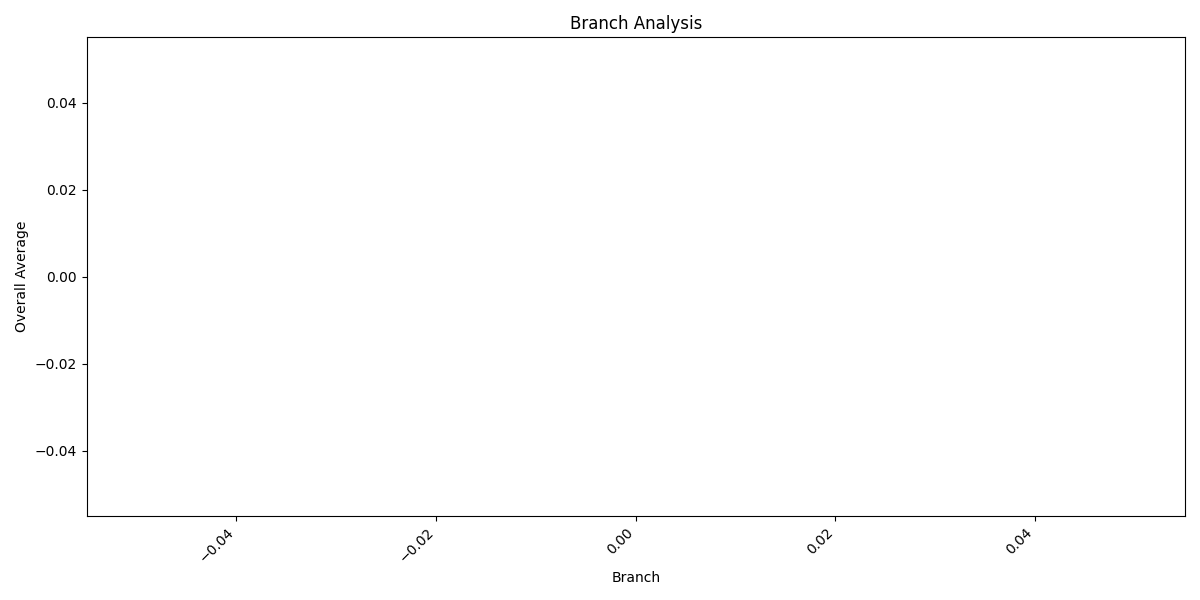
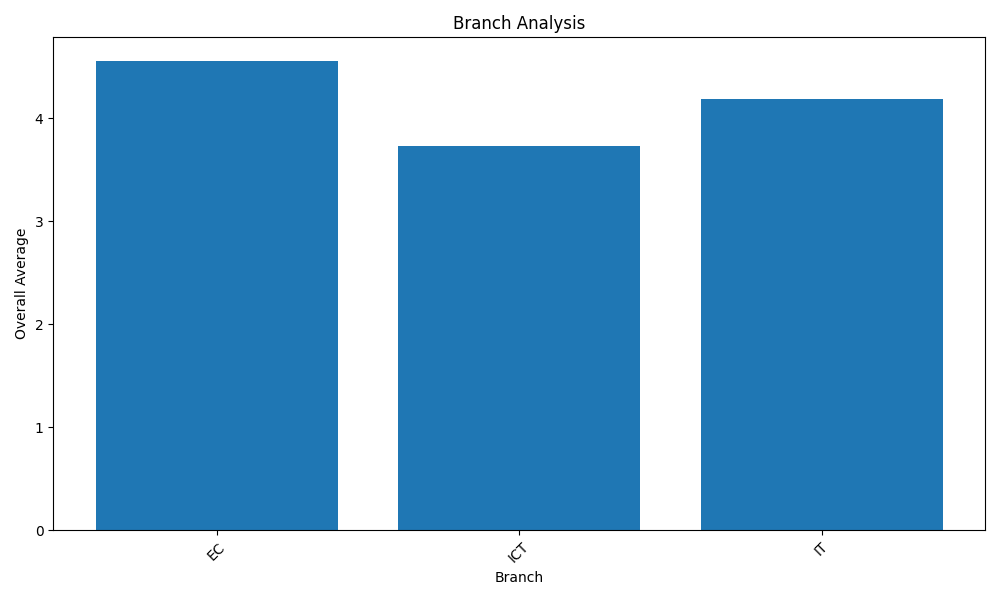
Parameter-wise Analysis Plot

diff --git a/feedback-analysis.py b/feedback-analysis.py
@@ -1,6 +1,7 @@
 import csv
 from collections import defaultdict
 from datetime import datetime
+import matplotlib.pyplot as plt
 
 def calculate_average(scores):
     return sum(scores) / len(scores)
@@ -171,6 +172,135 @@ def analyze_feedback(file_path):
     return analysis, data
 
 
+def generate_charts(analysis_result):
+    # Branch Analysis Chart
+    branches = list(analysis_result['Branch Analysis'].keys())
+    branch_averages = [data['Overall average'] for data in analysis_result['Branch Analysis'].values()]
+    plt.figure(figsize=(10, 6))
+    plt.bar(branches, branch_averages)
+    plt.xlabel('Branch')
+    plt.ylabel('Overall Average')
+    plt.title('Branch Analysis')
+    plt.xticks(rotation=45)
+    plt.tight_layout()
+    plt.savefig('branch_analysis.png')
+    plt.close()
+
+    # Semester Analysis Chart
+    semesters = list(analysis_result['Semester Analysis'].keys())
+    semester_averages = [data['Overall average'] for data in analysis_result['Semester Analysis'].values()]
+    plt.figure(figsize=(10, 6))
+    plt.bar(semesters, semester_averages)
+    plt.xlabel('Semester')
+    plt.ylabel('Overall Average')
+    plt.title('Semester Analysis')
+    plt.xticks(rotation=45)
+    plt.tight_layout()
+    plt.savefig('semester_analysis.png')
+    plt.close()
+
+    # Subject Analysis Chart
+    subjects = list(analysis_result['Subject Analysis'].keys())
+    subject_averages = [data['Overall average'] for data in analysis_result['Subject Analysis'].values()]
+    plt.figure(figsize=(12, 6))
+    plt.bar(subjects, subject_averages)
+    plt.xlabel('Subject')
+    plt.ylabel('Overall Average')
+    plt.title('Subject Analysis')
+    plt.xticks(rotation=90)
+    plt.tight_layout()
+    plt.savefig('subject_analysis.png')
+    plt.close()
+
+    # Faculty Analysis Chart
+    faculties = list(analysis_result['Faculty Analysis'].keys())
+    faculty_averages = [data['Overall average'] for data in analysis_result['Faculty Analysis'].values()]
+    plt.figure(figsize=(12, 6))
+    plt.bar(faculties, faculty_averages)
+    plt.xlabel('Faculty')
+    plt.ylabel('Overall Average')
+    plt.title('Faculty Analysis')
+    plt.xticks(rotation=90)
+    plt.tight_layout()
+    plt.savefig('faculty_analysis.png')
+    plt.close()
+
+    # Parameter-wise Branch Analysis Chart
+    branches = list(analysis_result['Parameter-wise Analysis']['Branch'].keys())
+    params = list(analysis_result['Parameter-wise Analysis']['Branch'][branches[0]].keys())
+    param_data = {param: [analysis_result['Parameter-wise Analysis']['Branch'][branch][param] for branch in branches] for param in params}
+    fig, ax = plt.subplots(figsize=(10, 6))
+    x = range(len(branches))
+    width = 0.8 / len(params)
+    for i, param in enumerate(params):
+        ax.bar([xpos + i * width for xpos in x], param_data[param], width, label=param)
+    ax.set_xlabel('Branch')
+    ax.set_ylabel('Average Score')
+    ax.set_title('Parameter-wise Branch Analysis')
+    ax.set_xticks([xpos + (len(params) - 1) * width / 2 for xpos in x])
+    ax.set_xticklabels(branches, rotation=45)
+    ax.legend()
+    plt.tight_layout()
+    plt.savefig('parameter_branch_analysis.png')
+    plt.close()
+
+    # Parameter-wise Semester Analysis Chart
+    semesters = list(analysis_result['Parameter-wise Analysis']['Semester'].keys())
+    params = list(analysis_result['Parameter-wise Analysis']['Semester'][semesters[0]].keys())
+    param_data = {param: [analysis_result['Parameter-wise Analysis']['Semester'][semester][param] for semester in semesters] for param in params}
+    fig, ax = plt.subplots(figsize=(12, 6))
+    x = range(len(semesters))
+    width = 0.8 / len(params)
+    for i, param in enumerate(params):
+        ax.bar([xpos + i * width for xpos in x], param_data[param], width, label=param)
+    ax.set_xlabel('Semester')
+    ax.set_ylabel('Average Score')
+    ax.set_title('Parameter-wise Semester Analysis')
+    ax.set_xticks([xpos + (len(params) - 1) * width / 2 for xpos in x])
+    ax.set_xticklabels(semesters, rotation=90)
+    ax.legend()
+    plt.tight_layout()
+    plt.savefig('parameter_semester_analysis.png')
+    plt.close()
+
+    # Parameter-wise Subject Analysis Chart
+    subjects = list(analysis_result['Parameter-wise Analysis']['Subject'].keys())
+    params = list(analysis_result['Parameter-wise Analysis']['Subject'][subjects[0]].keys())
+    param_data = {param: [analysis_result['Parameter-wise Analysis']['Subject'][subject][param] for subject in subjects] for param in params}
+    fig, ax = plt.subplots(figsize=(12, 8))
+    x = range(len(subjects))
+    width = 0.8 / len(params)
+    for i, param in enumerate(params):
+        ax.bar([xpos + i * width for xpos in x], param_data[param], width, label=param)
+    ax.set_xlabel('Subject')
+    ax.set_ylabel('Average Score')
+    ax.set_title('Parameter-wise Subject Analysis')
+    ax.set_xticks([xpos + (len(params) - 1) * width / 2 for xpos in x])
+    ax.set_xticklabels(subjects, rotation=90)
+    ax.legend()
+    plt.tight_layout()
+    plt.savefig('parameter_subject_analysis.png')
+    plt.close()
+
+    # Parameter-wise Faculty Analysis Chart
+    faculties = list(analysis_result['Parameter-wise Analysis']['Faculty'].keys())
+    params = list(analysis_result['Parameter-wise Analysis']['Faculty'][faculties[0]].keys())
+    param_data = {param: [analysis_result['Parameter-wise Analysis']['Faculty'][faculty][param] for faculty in faculties] for param in params}
+    fig, ax = plt.subplots(figsize=(12, 8))
+    x = range(len(faculties))
+    width = 0.8 / len(params)
+    for i, param in enumerate(params):
+        ax.bar([xpos + i * width for xpos in x], param_data[param], width, label=param)
+    ax.set_xlabel('Faculty')
+    ax.set_ylabel('Average Score')
+    ax.set_title('Parameter-wise Faculty Analysis')
+    ax.set_xticks([xpos + (len(params) - 1) * width / 2 for xpos in x])
+    ax.set_xticklabels(faculties, rotation=90)
+    ax.legend()
+    plt.tight_layout()
+    plt.savefig('parameter_faculty_analysis.png')
+    plt.close()
+
 def generate_markdown_report(analysis_result, data, output_file):
     with open(output_file, 'w') as file:
         file.write("# Student Feedback Analysis Report\n\n")
@@ -205,6 +335,7 @@ def generate_markdown_report(analysis_result, data, output_file):
         file.write("|--------|----------------|\n")
         for branch, branch_data in analysis_result['Branch Analysis'].items():
             file.write(f"| {branch} | {branch_data['Overall average']:.2f} |\n")
+        file.write("\n![Branch Analysis](branch_analysis.png)\n\n")
 
         file.write("\n#### Semester Analysis\n\n")
         file.write("| Semester | Branch | Overall Average |\n")
@@ -212,18 +343,21 @@ def generate_markdown_report(analysis_result, data, output_file):
         for semester, semester_data in analysis_result['Semester Analysis'].items():
             branch = semester.split('(')[1].split(')')[0]
             file.write(f"| {semester} | {branch} | {semester_data['Overall average']:.2f} |\n")
+        file.write("\n![Semester Analysis](semester_analysis.png)\n\n")
 
         file.write("\n#### Subject Analysis\n\n")
         file.write("| Subject | Overall Average |\n")
         file.write("|---------|----------------|\n")
         for subject, subject_data in analysis_result['Subject Analysis'].items():
             file.write(f"| {subject} | {subject_data['Overall average']:.2f} |\n")
+        file.write("\n![Subject Analysis](subject_analysis.png)\n\n")
 
         file.write("\n#### Faculty Analysis\n\n")
         file.write("| Faculty | Overall Average |\n")
         file.write("|---------|----------------|\n")
         for faculty, faculty_data in analysis_result['Faculty Analysis'].items():
             file.write(f"| {faculty} | {faculty_data['Overall average']:.2f} |\n")
+        file.write("\n![Faculty Analysis](faculty_analysis.png)\n\n")
 
         file.write("\n#### Faculty-Subject Analysis\n\n")
         file.write("| Faculty | Subject | Average |\n")
@@ -261,6 +395,7 @@ def generate_markdown_report(analysis_result, data, output_file):
             for param, average in param_data.items():
                 row += f" {average:.2f} |"
             file.write(row + "\n")
+        file.write("\n![Parameter-wise Branch Analysis](parameter_branch_analysis.png)\n\n")
 
         file.write("\n#### Parameter-wise Semester Analysis\n\n")
         file.write("| Semester | " + " | ".join(f"Q{i}" for i in range(1, 13)) + " |\n")
@@ -270,6 +405,7 @@ def generate_markdown_report(analysis_result, data, output_file):
             for param, average in param_data.items():
                 row += f" {average:.2f} |"
             file.write(row + "\n")
+        file.write("\n![Parameter-wise Semester Analysis](parameter_semester_analysis.png)\n\n")
 
         file.write("\n#### Parameter-wise Subject Analysis\n\n")
         file.write("| Subject | " + " | ".join(f"Q{i}" for i in range(1, 13)) + " |\n")
@@ -279,6 +415,7 @@ def generate_markdown_report(analysis_result, data, output_file):
             for param, average in param_data.items():
                 row += f" {average:.2f} |"
             file.write(row + "\n")
+        file.write("\n![Parameter-wise Subject Analysis](parameter_subject_analysis.png)\n\n")
 
         file.write("\n#### Parameter-wise Faculty Analysis\n\n")
         file.write("| Faculty | " + " | ".join(f"Q{i}" for i in range(1, 13)) + " |\n")
@@ -288,10 +425,11 @@ def generate_markdown_report(analysis_result, data, output_file):
             for param, average in param_data.items():
                 row += f" {average:.2f} |"
             file.write(row + "\n")
-
+        file.write("\n![Parameter-wise Faculty Analysis](parameter_faculty_analysis.png)\n\n")
 
 # Usage
 file_path = 'Odd_2023.csv'
 output_file = 'analysis_report.md'
 analysis_result, data = analyze_feedback(file_path)
+generate_charts(analysis_result)
 generate_markdown_report(analysis_result, data, output_file)

diff --git a/analysis_report.md b/analysis_report.md
@@ -139,6 +139,9 @@
 | ICT | 3.73 |
 | IT | 4.19 |
 
+![Branch Analysis](branch_analysis.png)
+
+
 #### Semester Analysis
 
 | Semester | Branch | Overall Average |
@@ -149,6 +152,9 @@
 | Sem 3 (ICT) | ICT | 4.30 |
 | Sem 1 (ICT) | ICT | 3.56 |
 | Sem 1 (IT) | IT | 4.19 |
+
+![Semester Analysis](semester_analysis.png)
+
 
 #### Subject Analysis
 
@@ -182,6 +188,9 @@
 | SWD (4311603) | 4.36 |
 | IIS (4311602) | 4.02 |
 
+![Subject Analysis](subject_analysis.png)
+
+
 #### Faculty Analysis
 
 | Faculty | Overall Average |
@@ -195,6 +204,9 @@
 | Mr. S J Chauhan | 4.28 |
 | Mr. N J Chauhan | 4.08 |
 | Mr. M J Vadhwania | 3.15 |
+
+![Faculty Analysis](faculty_analysis.png)
+
 
 #### Faculty-Subject Analysis
 
@@ -304,6 +316,9 @@
 | ICT | 3.73 | 3.63 | 3.74 | 3.76 | 3.72 | 3.74 | 3.75 | 3.72 | 3.73 | 3.71 | 3.73 | 3.78 |
 | IT | 4.26 | 4.16 | 4.21 | 4.20 | 4.12 | 4.31 | 4.23 | 4.21 | 4.18 | 4.04 | 4.19 | 4.17 |
 
+![Parameter-wise Branch Analysis](parameter_branch_analysis.png)
+
+
 #### Parameter-wise Semester Analysis
 
 | Semester | Q1 | Q2 | Q3 | Q4 | Q5 | Q6 | Q7 | Q8 | Q9 | Q10 | Q11 | Q12 |
@@ -314,6 +329,9 @@
 | Sem 3 (ICT) | 4.13 | 3.97 | 4.26 | 4.37 | 4.39 | 4.23 | 4.36 | 4.31 | 4.34 | 4.40 | 4.36 | 4.47 |
 | Sem 1 (ICT) | 3.61 | 3.53 | 3.59 | 3.58 | 3.53 | 3.60 | 3.57 | 3.55 | 3.55 | 3.51 | 3.55 | 3.57 |
 | Sem 1 (IT) | 4.26 | 4.16 | 4.21 | 4.20 | 4.12 | 4.31 | 4.23 | 4.21 | 4.18 | 4.04 | 4.19 | 4.17 |
+
+![Parameter-wise Semester Analysis](parameter_semester_analysis.png)
+
 
 #### Parameter-wise Subject Analysis
 
@@ -347,6 +365,9 @@
 | SWD (4311603) | 4.30 | 4.30 | 4.52 | 4.43 | 4.17 | 4.52 | 4.43 | 4.35 | 4.35 | 4.22 | 4.39 | 4.35 |
 | IIS (4311602) | 4.12 | 4.01 | 3.99 | 4.07 | 4.00 | 4.14 | 4.09 | 4.06 | 3.99 | 3.94 | 3.93 | 3.94 |
 
+![Parameter-wise Subject Analysis](parameter_subject_analysis.png)
+
+
 #### Parameter-wise Faculty Analysis
 
 | Faculty | Q1 | Q2 | Q3 | Q4 | Q5 | Q6 | Q7 | Q8 | Q9 | Q10 | Q11 | Q12 |
@@ -360,3 +381,6 @@
 | Mr. S J Chauhan | 4.32 | 3.77 | 4.23 | 4.41 | 4.41 | 4.32 | 4.36 | 4.32 | 4.18 | 4.27 | 4.32 | 4.45 |
 | Mr. N J Chauhan | 4.08 | 4.04 | 3.99 | 4.07 | 4.08 | 4.09 | 4.19 | 4.15 | 4.09 | 4.08 | 4.00 | 4.08 |
 | Mr. M J Vadhwania | 3.66 | 3.28 | 3.21 | 3.14 | 3.10 | 3.24 | 3.21 | 3.21 | 2.93 | 3.03 | 2.86 | 2.90 |
+
+![Parameter-wise Faculty Analysis](parameter_faculty_analysis.png)
+
